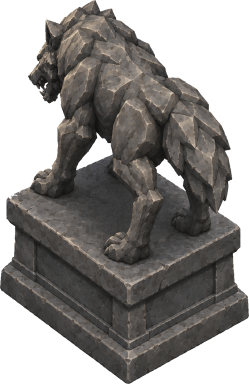
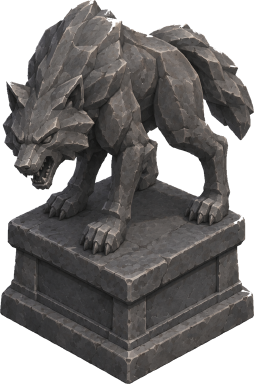
Fix statue facing: player faces down-right, enemies down-left
The human statue art already faces down-right, so it is no longer
mirrored. Wolves go back to the front view, facing down-left so their
faces show; the back view is kept as Source/wolf_back.png.

diff --git a/Assets/Scripts/View/UnitView.cs b/Assets/Scripts/View/UnitView.cs
@@ -56,9 +56,9 @@ namespace ArmyRoguelike.View
             if (PlaceholderArt.IsPainted(unit.Stats.Kind))
             {
                 _baseColor = Color.white;
-                // Player art faces down-left and is mirrored to face down-right, towards the enemy rows; enemy
-                // art is drawn from behind, facing up-left towards the player.
-                _body.flipX = unit.Team == Team.Player;
+                // Shown as drawn: the player's statues face down-right, towards the enemy rows, and enemy
+                // statues face down-left, towards the camera, so their faces show.
+                _body.flipX = false;
             }
             _body.color = _baseColor;
             if (unit.IsPackLeader)
